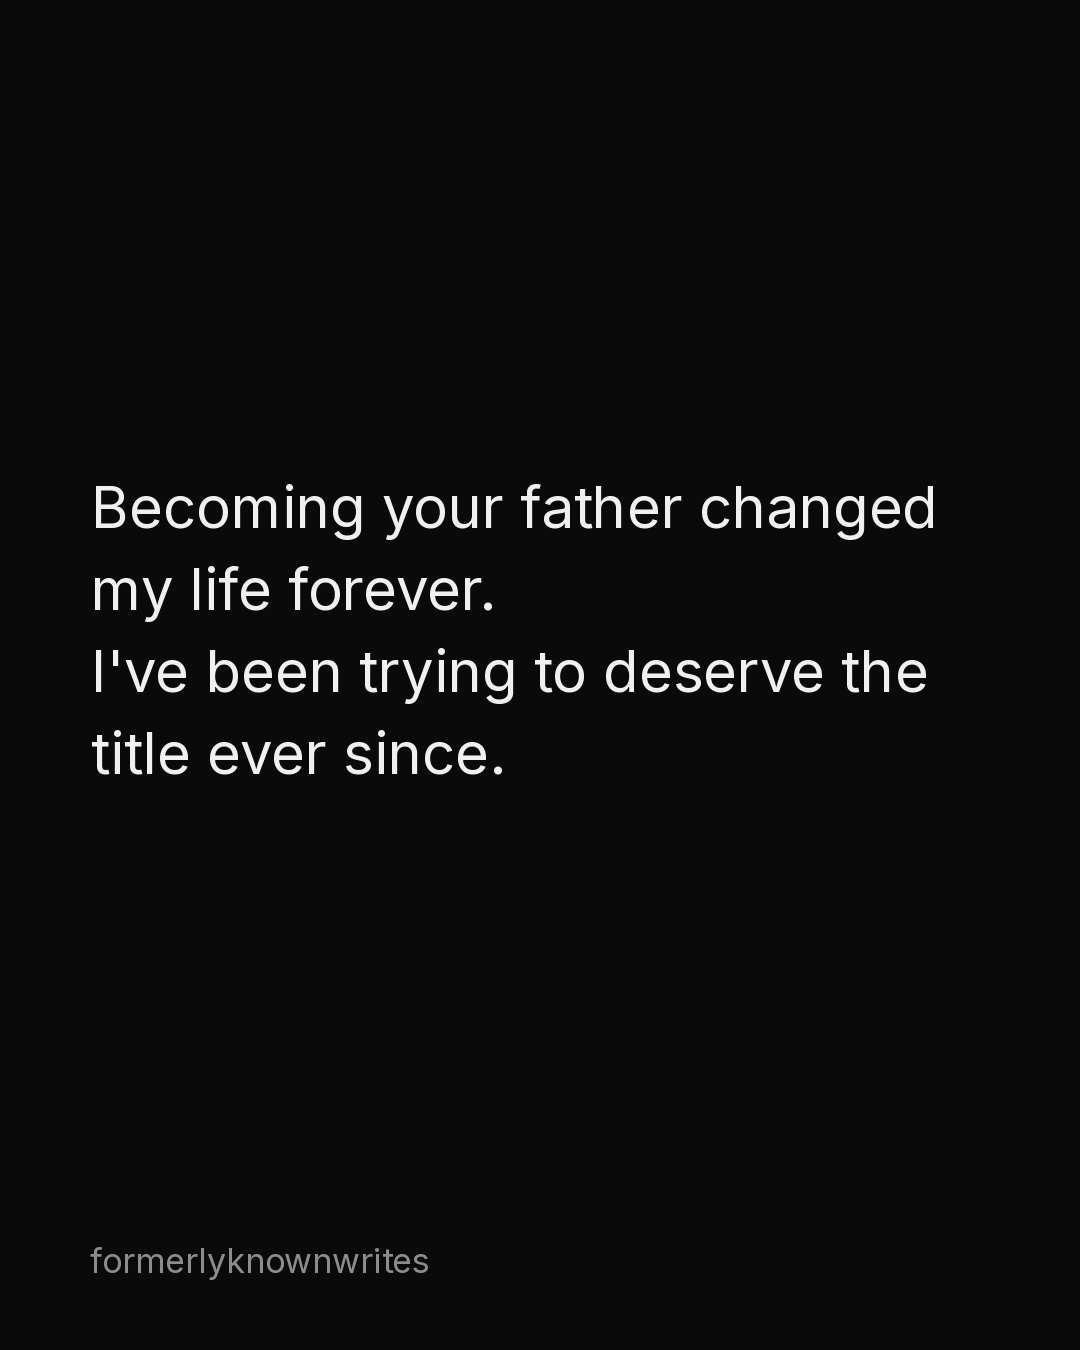
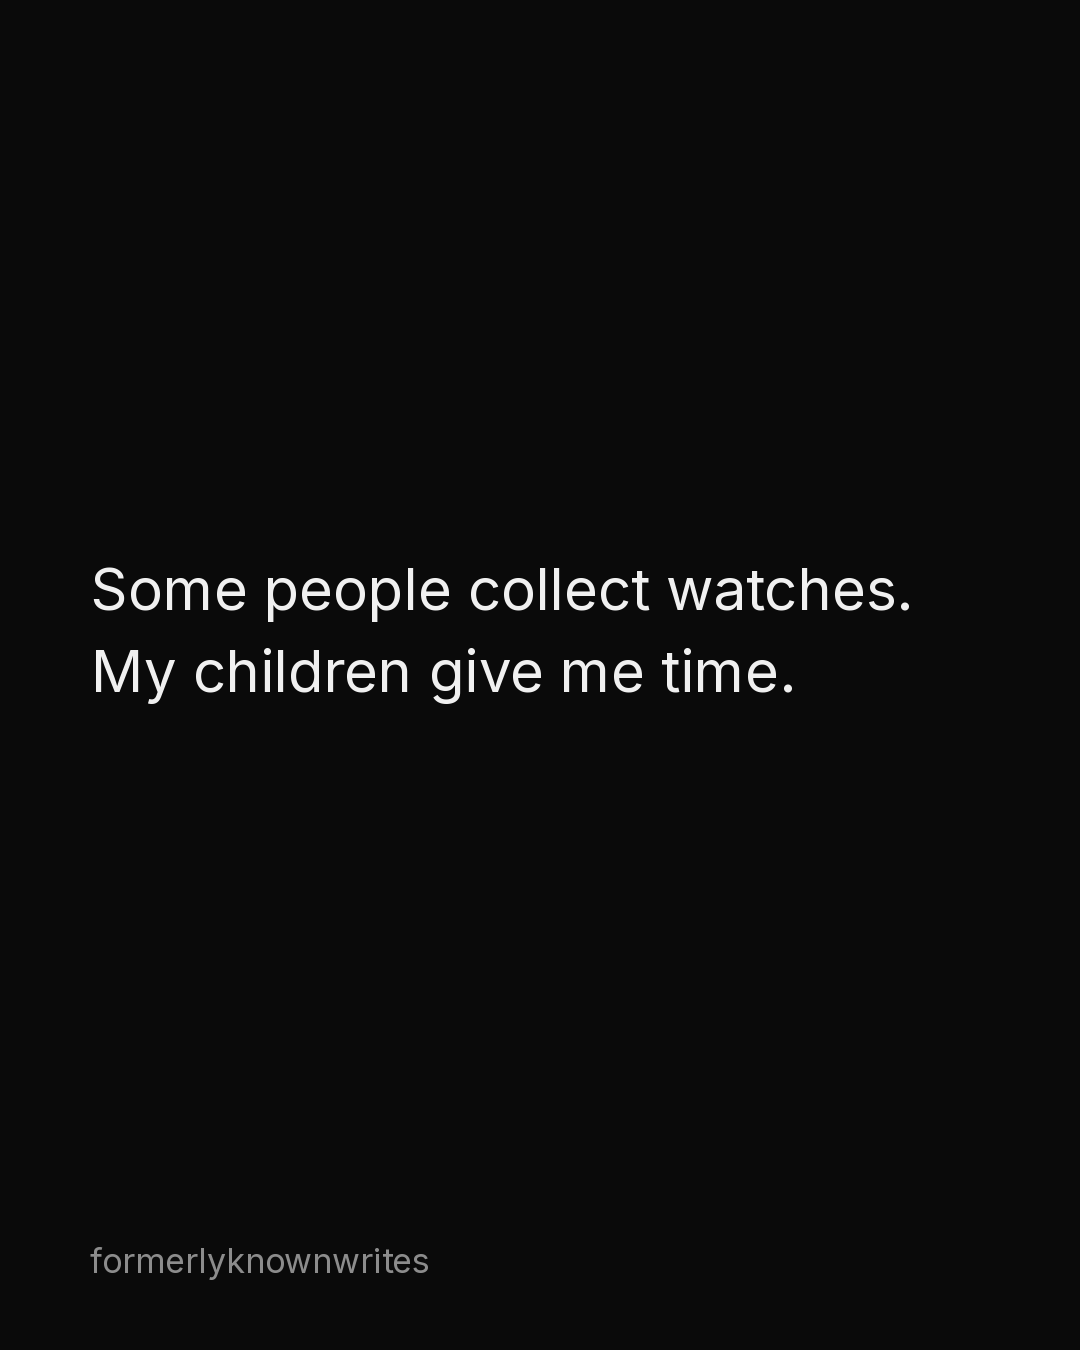
Rewrite fatherhood posts in the page owner's own style and extend refill voice
Claude-Session: https://claude.ai/code/session_01CxChRxeGvQoxpyPYG1GdJD

Changed region(s): [[0.0917, 0.3422, 0.8861, 0.5911]]

diff --git a/tools/refill.py b/tools/refill.py
@@ -43,7 +43,7 @@ Hard rules:
 - Never use em dashes or en dashes. Use commas, periods, or parentheses.
 - Universal wording only. Never point at a specific person or relationship. Every post must be about an experience in general and read as safe if screenshotted and shown to anyone.
 - Tone for any post about parenting: warm, patient, steady, and child-centered. Never harsh, rigid, cold, or controlling. No lines about a cruel or ungentle world, and no scorekeeping about who shows up or when.
-- Parenting voice, how this father actually talks about his kids: tender and affirming, often speaking straight to the child ("you"). Love that does not have to be earned. "You are enough." Being a steady presence through life's storms rather than promising to prevent them. Faith and family as what holds him up. Encouraging kids to stay curious, kind, imaginative, and true to themselves, to follow the dreams in their own heart, to balance passion with gentleness, and to get back up when they stumble. Gratitude for what his children teach him. Humble about his own imperfection ("some days I wish for a do-over"). Never stern, never lecturing, never a list of rules.
+- Parenting voice, how this father actually talks about his kids: tender and affirming, often speaking straight to the child ("you"). Love that does not have to be earned. "You are enough." Being a steady presence through life's storms rather than promising to prevent them. Faith and family as what holds him up. Encouraging kids to stay curious, kind, imaginative, and true to themselves, to follow the dreams in their own heart, to balance passion with gentleness, and to get back up when they stumble. Gratitude for what his children teach him. Humble about his own imperfection ("some days I wish for a do-over"). Never stern, never lecturing, never a list of rules. His signature craft is wordplay and triads: one image that carries three meanings ("a charger, a charge, and a charge forward"; "a handprint, a blueprint, and an imprint"; "love disguised as art, purpose disguised as paper"), plus steady metaphors like a rock, a garden, a lighthouse, a compass, roots and wings, seeds that bloom. Fatherhood as something he builds and tends, not a title he holds. Wealth measured by what fills the heart.
 - Never imply anyone else fails at what a post describes, never attribute motives to other people, and never mention schedules, days of the week, or being absent or away.
 - Betrayal posts stay general. Nothing about people close to you using or targeting you.
 - Do not repeat or closely paraphrase any quote in the AVOID list.
